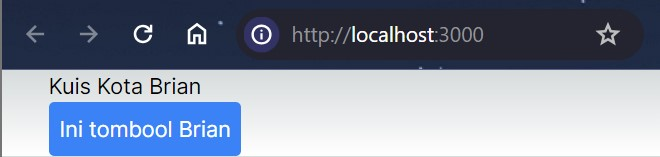
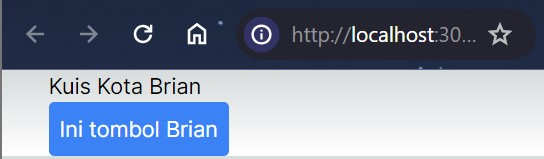
Praktikum 2

diff --git a/event-dan-state/src/app/component/button.tsx b/event-dan-state/src/app/component/button.tsx
@@ -1,3 +1,13 @@
+export function Tombol_2({isiPesan, namaTombol1}) {
+    return (
+        <button
+            className="bg-blue-500 hover:bg-blue-700 text-white p-2 rounded"
+            onClick={() => alert(isiPesan)}>
+            {namaTombol1}
+        </button>
+    );
+}
+
 export default function Tombol_1() {
     function handleClick() {
         alert("Tombol telah ditekan!!!")
@@ -15,7 +25,7 @@ export default function Tombol_1() {
                 }
             }
         >
-            Ini tombool Brian
+            Ini tombol Brian
         </button>
     )
 }

diff --git a/event-dan-state/src/app/page.tsx b/event-dan-state/src/app/page.tsx
@@ -1,5 +1,5 @@
 "use client";
-import Tombol_1 from "./component/button";
+import Tombol_1, { Tombol_2 } from "./component/button";
 
 export default function Home() {
   return (
@@ -7,6 +7,8 @@ export default function Home() {
       <div className="container mx-auto">
         <h2>Kuis Kota Brian</h2>
         <Tombol_1/>
+        <hr></hr>
+        <Tombol_2 isiPesan="Ini Pesan Brian" namaTombol1="Pesan"/>
       </div>
     </>
   );

diff --git a/event-dan-state/README.md b/event-dan-state/README.md
@@ -40,7 +40,7 @@ Method `event handle` HARUS dioper (ditulis nama fungsinya, tanpa tanda kurung `
                 }
             }
         >
-            Ini tombool Brian
+            Ini tombol Brian
         </button>
     )
 ```
@@ -49,3 +49,16 @@ Method `event handle` HARUS dioper (ditulis nama fungsinya, tanpa tanda kurung `
 
 ---
 
+# Praktikum 2:
+
+Pada `component`, hanya ada 1 fungsi yang memiliki `default` !
+
+Parameter `isiPesan` dan `namaTombol` bisa diisi oleh layout yang ada di `page.tsx` nanti, sehingga komponen `Tombol_2` bernilai dinamis.
+
+![Screenshot P2](assets-report/praktikum2.jpg)
+
+#### Jelaskan mengapa bisa seperti itu?
+
+- Karena pada parameter `isiPesan` dan `namaTombol` bisa diisi oleh tata letak (layout) yang ada di file `page.tsx`. Ini berarti bahwa nilai untuk kedua parameter tersebut akan ditentukan `dinamis` oleh komponen yang menggunakan tombol tersebut di dalam `page.tsx`.
+
+---
